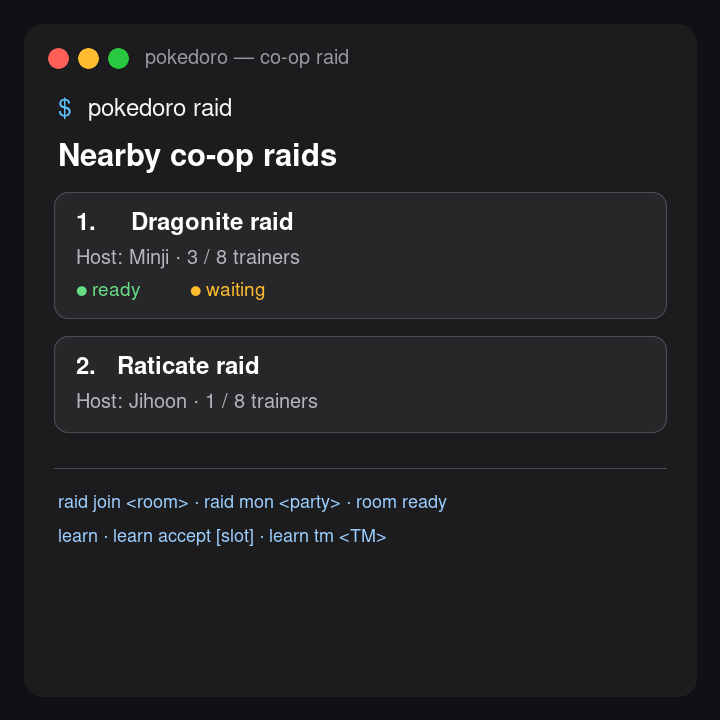
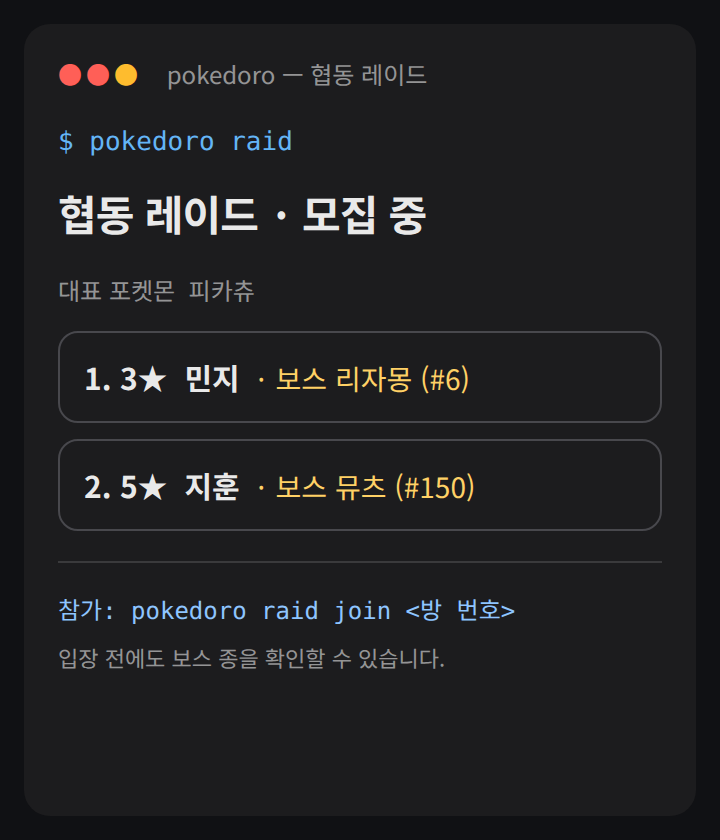
v2.37.1 릴리스 메타데이터를 갱신한다

diff --git a/README.md b/README.md
@@ -196,7 +196,7 @@ pokedoro help                 전체 명령 목록
 
 <p align="center"><img src="assets/screenshot-terminal-tui.png" width="360" alt="협동 레이드 방과 기술 배우기 명령을 보여 주는 터미널"></p>
 
-협동 레이드 방을 찾고 참가·준비까지 진행하며, `learn`으로 하트비늘 후보와 기술머신을 포함한 기술 배우기를 끝까지 처리할 수 있습니다.
+협동 레이드 방을 찾으면 티어·방장과 함께 보스 이름·도감 번호를 입장 전에 확인하고 참가·준비까지 진행할 수 있으며, `learn`으로 하트비늘 후보와 기술머신을 포함한 기술 배우기를 끝까지 처리할 수 있습니다.
 
 tmux 상태줄에 붙이는 예입니다.
 

diff --git a/RELEASE_NOTES.ko.md b/RELEASE_NOTES.ko.md
@@ -1,3 +1,3 @@
 ## 이번 업데이트
 
-- **설정에 "근처 기기에 내 존재 알리기 (실험)" 토글을 더했습니다.** 블루투스로 신호만 내보내고 데이터는 싣지 않습니다. 기본값은 꺼짐입니다.
+- **터미널 협동 레이드 방 목록에서 보스를 미리 확인할 수 있습니다.** `pokedoro raid`가 방장과 티어뿐 아니라 보스 이름과 도감 번호도 표시하므로, 방에 참가하기 전에 원하는 레이드인지 판단할 수 있습니다.
